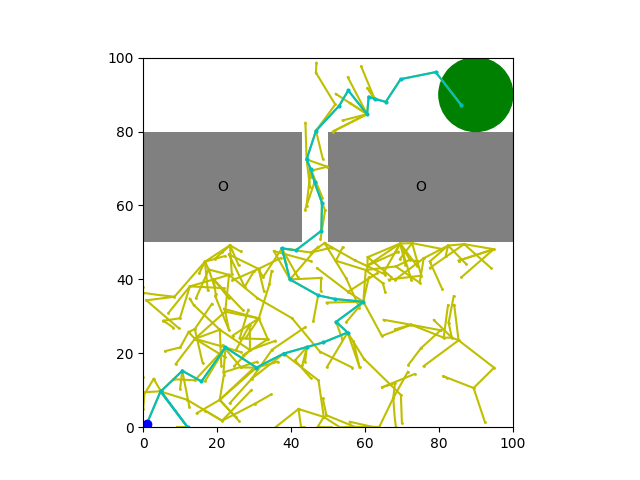
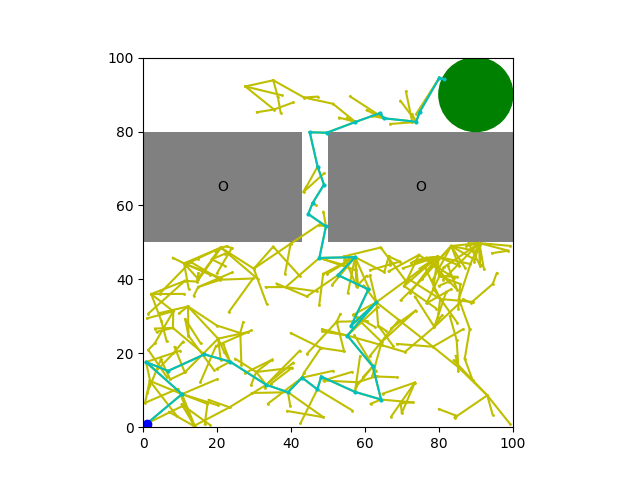
Inference code+training code added, need to make slight modifications

Changed region(s): [[0.2188, 0.125, 0.8125, 0.9062], [0.4688, 0.125, 0.5, 0.1562]]

diff --git a/train_diffusion_policy.py b/train_diffusion_policy.py
@@ -27,6 +27,7 @@ from rollout_manager import rollout
 
 from local_map_encoder import ConditionalUnet1DWithLocalMap, ConditionalUnet1D
 from log_to_tensorboard import log_results
+from belief_env import Belief_env
 
 
 def init_noise_pred_net(
@@ -91,6 +92,15 @@ def get_dataset(env_id):
         def get_act(sample):
             return sample['actions']
 
+    elif "belief" in env_id.lower():
+        filename = "datasets/belief_episodes.pkl"
+        with open(filename, "rb") as f:
+            dataset = pickle.load(f)
+        def get_obs(sample):
+            return sample['observations']
+        def get_act(sample):
+            return sample['actions']
+
     else:
         if isinstance(env_id, list):
             dataset = []
@@ -108,7 +118,7 @@ def get_dataset(env_id):
     # if metadata/env_id exists load, otherwise create and save
     metadata_path = f"metadata/{env_id}.pt"
     if os.path.exists(metadata_path):
-        metadata = torch.load(metadata_path)
+        metadata = torch.load(metadata_path, weights_only=False)
 
         # for v_x, v_y using v range
         # metadata['Observations_min'][2] = metadata['Observations_min'][3]
@@ -171,7 +181,7 @@ def train_by_steps(
         output_dir='checkpoints/',
         experiment_name=f"diffusion_planning_{datetime.now().strftime('%d_%m_%H_%M')}",
         env_id="pointmaze-medium-v2",  # ["antmaze-large-diverse-v1", "pointmaze-medium-v2"]
-        rollouts=True,
+        rollouts=False,
         prediction_type='observations',
         obs_history=1,  # number of observations to use per sample
         action_history=1,  # number of past actions to use per sample
@@ -245,6 +255,16 @@ def train_by_steps(
         action_dim = 2
         map_center = (6.0, 4.5)
 
+    elif "belief" in env_id:
+        full_obs_dim = 2
+        obs_dim = full_obs_dim
+
+        if not position_conditioned:
+            obs_dim = 0
+        
+        action_dim = 2
+        map_center = (50.0, 50.0)
+
     else:
         raise ValueError(f"Invalid env_id: {env_id}")
 
@@ -264,6 +284,10 @@ def train_by_steps(
     # if pointmaze or antmaze, use the maze map as global map
     if "pointmaze" in env_id:
         global_map = np.float32(dataset.env_spec.kwargs['maze_map']) if local_map_conditioned else None
+
+    elif "belief" in env_id.lower():
+        env = Belief_env()
+        global_map = env.build_belief_global_map()
 
     else:
         global_map = np.genfromtxt('maps/mazes/D4RL_large.csv', delimiter=',',
@@ -351,23 +375,26 @@ def train_by_steps(
         loss = checkpoint['loss']
         print(f"Loaded checkpoint from epoch {checkpoint['epoch']} with loss {loss}")
 
-    results_per_scenario, frames = rollout(
-        env_id,
-        policy,
-        noise_pred_net,
-        noise_scheduler,
-        max_episode_steps=max_rollout_steps,
-        num_diffusion_iters=num_diffusion_iters,
-        prediction_type=prediction_type,
-        obs_history=obs_history,
-        action_history=action_history,
-        position_conditioned=position_conditioned,
-        goal_conditioned=goal_conditioned,
-        local_map_size=local_map_size,
-        scale=local_map_scale,
-        pred_horizon=pred_horizon,
-        action_horizon=action_horizon,
-    )
+    frames = None
+    results_per_scenario = None
+    if rollouts:
+        results_per_scenario, frames = rollout(
+            env_id,
+            policy,
+            noise_pred_net,
+            noise_scheduler,
+            max_episode_steps=max_rollout_steps,
+            num_diffusion_iters=num_diffusion_iters,
+            prediction_type=prediction_type,
+            obs_history=obs_history,
+            action_history=action_history,
+            position_conditioned=position_conditioned,
+            goal_conditioned=goal_conditioned,
+            local_map_size=local_map_size,
+            scale=local_map_scale,
+            pred_horizon=pred_horizon,
+            action_horizon=action_horizon,
+        )
     if frames:
         clip = ImageSequenceClip(frames, fps=10)
         os.makedirs("video", exist_ok=True)
@@ -375,8 +402,9 @@ def train_by_steps(
 
     if not debug:
         writer = SummaryWriter(log_dir=f"runs/{experiment_name}")
-        log_results(writer, results_per_scenario, start_epoch - 1,
-                    experiment_name, env_id,s_global)
+        if results_per_scenario is not None:
+            log_results(writer, results_per_scenario, start_epoch - 1,
+                        experiment_name, env_id,s_global)
     else:
         writer = None
 

diff --git a/belief_agent.py b/belief_agent.py
@@ -12,9 +12,7 @@ class Belief_agent():
         covariance_init = np.eye(self.state_length)
 
         self.env = env
-        self.state = [self.env.env_start,covariance_init.flatten()]
-        self.input = np.zeros((self.action_length))
-
+    
         self.A = np.eye(self.state_length)
         self.B = np.eye(self.action_length)
         self.C = np.eye(self.measurement_size) #assuming measurementsize=statesize
@@ -26,17 +24,25 @@ class Belief_agent():
         self.u_max = 5
         self.u_min = -5
 
-    def step_state(self):
-        pos_next = self.A @ self.state[0] + self.B @ self.input
-        cov_next = self.step_covariance(pos_next)
+    def step_state(self, state, action):
+        pos = state[:self.state_length]
+        cov = state[self.state_length:]
+
+        if len(cov) == 0: #if only doing state-space planning
+            cov = np.zeros((self.state_length**2))
+
+        pos_next = self.A @ pos + self.B @ action
+        cov_next = self.step_covariance(pos_next,cov)
 
         pos_next = self.env.clip_pos(pos_next)
 
-        return [pos_next,cov_next]
+        new_state = np.append(pos_next, cov_next)
+
+        return new_state
 
 
-    def step_covariance(self,pos_next):
-        covmat = self.state[1].reshape(self.state_length, self.state_length)
+    def step_covariance(self, pos_next, cov):
+        covmat = cov.reshape(self.state_length, self.state_length)
 
         p_minus = (self.A @ covmat @ self.A.T) + self.Q
 
@@ -47,41 +53,37 @@ class Belief_agent():
         
         return p_plus.flatten()
 
-    def step_mult(self,steps):
+    def step_mult(self, steps, state, actions):
         path = np.zeros((steps,self.state_length + (self.state_length**2)))
+        flag = 0
+
+        if len(actions) == 1: #Means this is for RRT training data, NOT model version
+            flag = 1    #if there is only 1 action, and then therefore usually more steps then actions
 
         for i in range(steps):
-            pos,cov = self.step_state()
-            self.state = [pos,cov]
-            x,y = pos
-            path[i,0] = x 
-            path[i,1] = y
-            path[i,2:6] = cov
+            if not flag:
+                state_next = self.step_state(state, actions[i,:])
+            else: 
+                state_next = self.step_state(state, actions[0,:])
         
-        return [pos, cov], path
+            path[i,:] = state_next
+            state=state_next
+        
+        return path[-1,:], path
 
     
     #wrapper functions for state-space RRT code
-    def get_random_action(self,rng):
+    def get_random_action(self, rng):
         return rng.uniform(self.u_min, self.u_max, size=self.action_length)
 
 
-    def get_next_state(self,state,action,dt,num_steps):
+    def get_next_state(self, state, actions, dt, num_steps):
 
-        og_state = self.state
-        og_input = self.input
+        new_state, path = self.step_mult(num_steps, state, actions)
 
-        self.state = [state.copy(), og_state[1].copy()] #for belief space, need to step with a passed in covariance too
-        self.input = action.copy()
-
-        new_state,path = self.step_mult(num_steps)
-        new_state = new_state[0]            #only want position
-        new_path = path[:,:2]
-
-        self.state = og_state
-        self.input = og_input
+        #only extract position
+        new_state = new_state[:self.state_length]
+        new_path = path[:,:self.state_length]
 
         return new_state, new_path
-
-
 

diff --git a/train_manager.py b/train_manager.py
@@ -1,29 +1,14 @@
-import csv
 from datetime import datetime
-import random
 
 import yaml
 
 from train_diffusion_policy import train_by_steps
-from rollout_manager import rollout
-from train_dipper import train_dipper, rollout_dipper
-
-import matplotlib.pyplot as plt
-import minari
-import numpy as np
-import torch
-from omegaconf import DictConfig
-from omegaconf import OmegaConf
-
-from diffusers.schedulers.scheduling_ddpm import DDPMScheduler
-
-from run_scenarios import evaluate_all_scenarios
 
 
 
 if __name__ == "__main__":
 
-    env_id = "carmaze"  # "carmaze" / "antmaze"
+    env_id = "beliefmaze"  # "carmaze" / "antmaze"
     unet_dims = {
         'small': [64, 128, 256],
         'medium': [256, 512, 1024],
@@ -35,7 +20,7 @@ if __name__ == "__main__":
         loaded_config = yaml.safe_load(file)
 
     timestamp = datetime.now().strftime('%d_%m_%H_%M')
-    experiment_name = f"carmaze_{timestamp}"  # _{timestamp}
+    experiment_name = f"beliefmaze_{timestamp}"  # _{timestamp}
 
     train_by_steps(
         # checkpoint="xxxx.pt",
@@ -44,6 +29,7 @@ if __name__ == "__main__":
         prediction_type=loaded_config.get('prediction_type', "actions"),    #  ["actions","observations"]
         obs_history=loaded_config.get('obs_history', 1),
         action_history=loaded_config.get('action_history', 1),
+        position_conditioned=loaded_config.get('position_conditioned', True),
         goal_conditioned=loaded_config.get('goal_conditioned', True),
         local_map_conditioned=loaded_config.get('local_map_conditioned', True),
         local_map_size=loaded_config.get('local_map_size', 20),
@@ -57,8 +43,7 @@ if __name__ == "__main__":
         augmentations=loaded_config.get('augmentations', ["mirror"]),   # ["rotate", "mirror"]
         policy=loaded_config.get('policy', "flow_matching"),    # ["diffusion","flow_matching"]
         num_diffusion_iters=loaded_config.get('num_diffusion_iters', 5),
-        unet_down_dims=unet_dims[loaded_config.get('unet_down_dims', 'large')],
+        unet_down_dims=unet_dims[loaded_config.get('unet_size', 'large')],
         pred_horizon=loaded_config.get('pred_horizon', 64),
         action_horizon=loaded_config.get('action_horizon', 8),
     )
-

diff --git a/belief_env.py b/belief_env.py
@@ -29,7 +29,20 @@ class Belief_env():
         self.static_circular_obstacles = np.empty((0, 3), dtype=np.float64)
         self.static_rectangular_obstacles = np.array(self.obstacle_region, dtype=np.float64)
 
+    def build_belief_global_map(self, s_global=1.0):
+        width = int((self.x_bounds[1] - self.x_bounds[0]) / s_global)
+        height = int((self.y_bounds[1] - self.y_bounds[0]) / s_global)
 
+        global_map = np.zeros((height, width), dtype=np.float32)
+
+        for x1, x2, y1, y2 in self.obstacle_region:
+            col1 = int(x1 / s_global)
+            col2 = int(x2 / s_global)
+            row1 = height - int(y2 / s_global)
+            row2 = height - int(y1 / s_global)
+            global_map[row1:row2, col1:col2] = 1.0
+
+        return global_map
 
     def cond_measurement_region(self,pos):
         x,y = pos
@@ -66,16 +79,16 @@ class Belief_env():
              and self.obstacle_region[i][2]<=y<= self.obstacle_region[i][3]):
                 return True
 
-        if xmin<=x<xmax and ymin<=y<ymax:
+        if xmin<x<xmax and ymin<y<ymax:
             return False
         else: 
             return True
 
     def path_safe(self, path):
-        for pos in path:
+        for i, pos in enumerate(path):
             if self.check_collision(pos):
-                return False
-        return True
+                return i, False
+        return len(path), True
 
     #might want to add covariance clipping if that exists
     def clip_pos(self,pos):

diff --git a/maze_datasets.py b/maze_datasets.py
@@ -345,6 +345,8 @@ class MazeDataset(Dataset):
         goal = episode['goal']
         if "ant" in self.env_id.lower() or "point" in self.env_id.lower():
             goal = goal[t]
+        elif "belief" in self.env_id.lower():
+            pass
         else:
             x = (goal[1] + 0.5) * self.s_global - self.map_center[0]
             y = self.map_center[1] - (goal[0] + 0.5) * self.s_global
@@ -366,7 +368,7 @@ class MazeDataset(Dataset):
             # create local raster map\occupancy grid
             if "ant" in self.env_id.lower():
                 x,y = episode['position'][t]
-            else:
+            else: #belief runs through this else
                 x, y = obs_seq[self.obs_history - 1, 0].item(), obs_seq[self.obs_history - 1, 1].item()
 
             if "car" in self.env_id.lower():

diff --git a/policies/fm_policy.py b/policies/fm_policy.py
@@ -49,7 +49,7 @@ class DiffusionSampler(nn.Module):
 
         self.noise_pred_net = noise_pred_net
         self.noise_scheduler = noise_scheduler
-
+#Analyze ts
     def forward(self, obs_seq, prev_actions, goal=None, local_map=None):
         """
             obs_seq (ndarray) : (B, obs_history, obs_dim)
